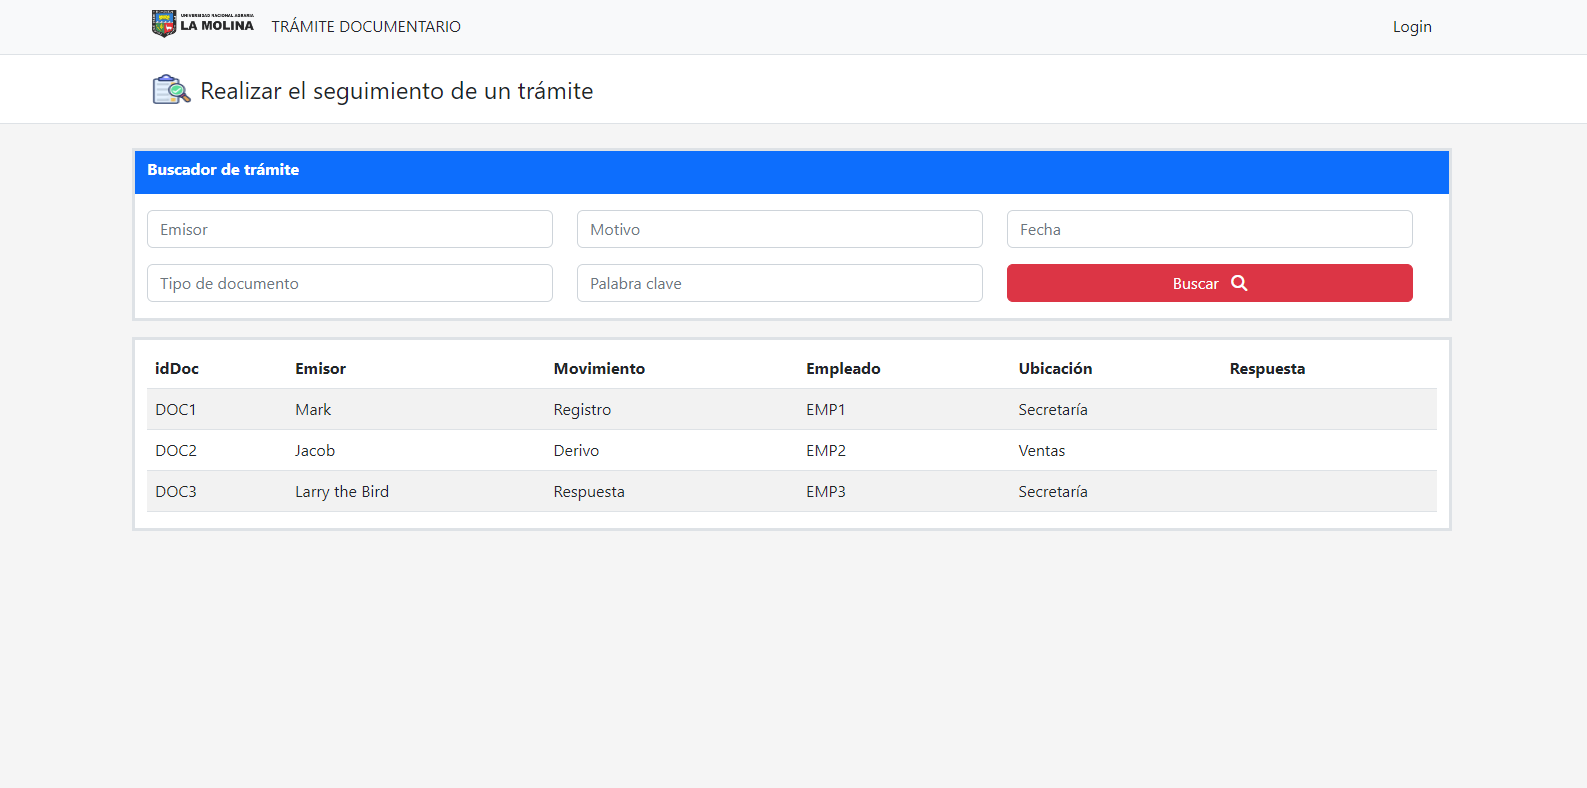
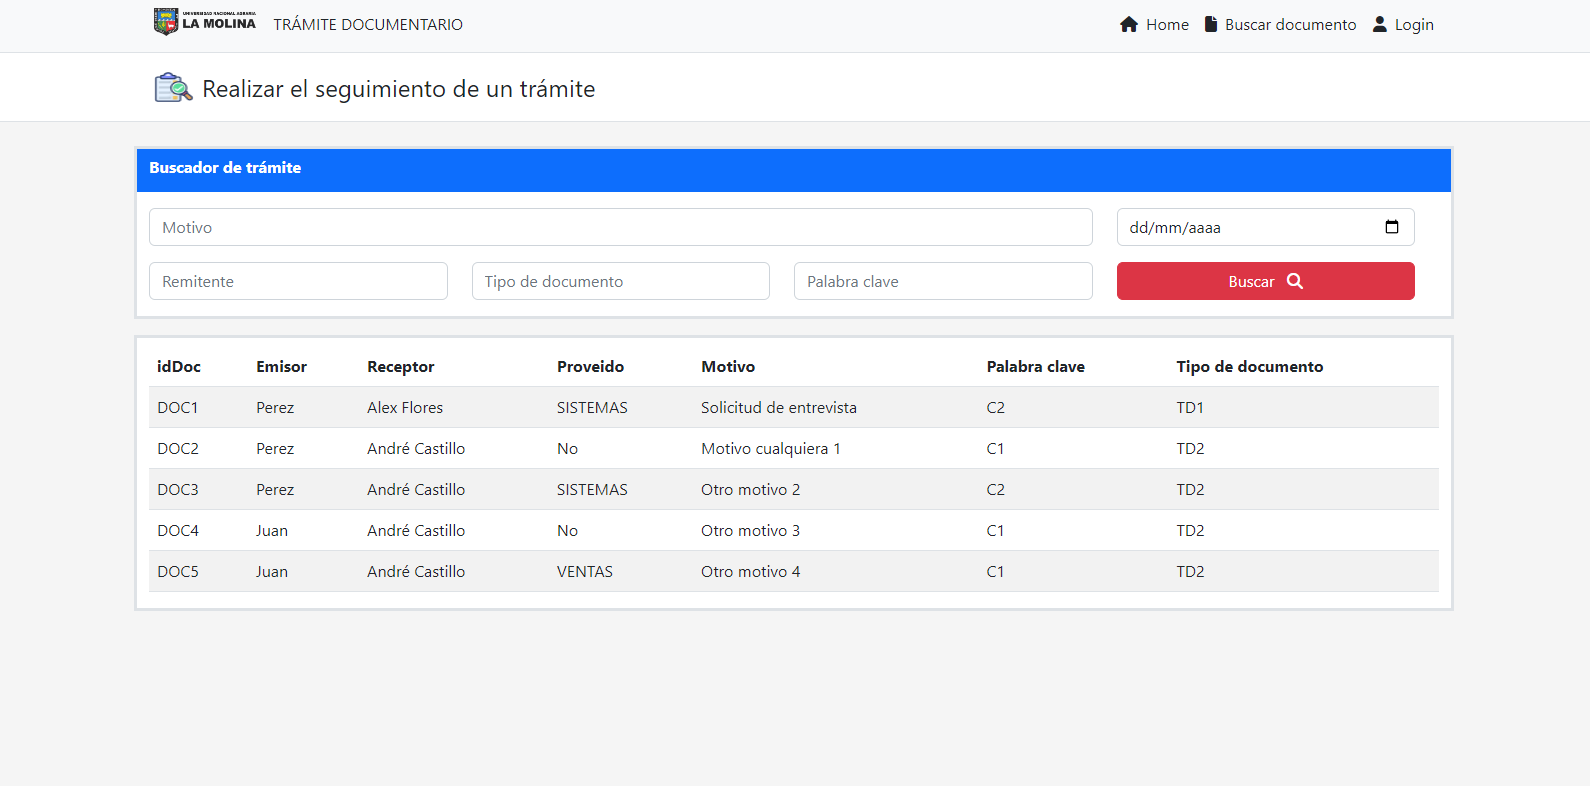
Version 0.1

diff --git a/app/templates/buscar.html b/app/templates/buscar.html
@@ -19,7 +19,7 @@
         <div class="container d-flex flex-wrap">
             <ul class="nav me-auto">
                 <li class="nav-item"><img class = "ms-2 pt-1" src="https://web.lamolina.edu.pe/ppl/templates/img/logo-unalm.png" alt="" height="32"></li>
-                <li class="nav-item"><a href="#" class="nav-link link-dark px-2 active" aria-current="page">TRÁMITE DOCUMENTARIO</a></li>
+                <li class="nav-item"><a href="/" class="nav-link link-dark px-2 active" aria-current="page">TRÁMITE DOCUMENTARIO</a></li>
             </ul>
             <ul class="nav">
                 <li class="nav-item"><a href="/" class="nav-link link-dark px-2"><i class="fa-solid fa-house me-2"></i>Home</a></li>
@@ -41,36 +41,36 @@
             <div class="row bg-primary text-white py-2">
                 <h2 class="fs-6 fw-bolder">Buscador de trámite</h2>
             </div>
-            <form class="row bg-white pb-3">
+            <form class="row bg-white pb-3" action="/buscar" method="POST">
                 <div class="row">
-                    <div class="col-4">
+                    <div class="col-9">
                         <div class="mt-3">
-                            <input type="text" class="form-control" placeholder="Emisor">
+                            <input type="text" class="form-control" placeholder="Motivo" name = "motivo">
                         </div>
                     </div>
-                    <div class="col-4">
+                    <div class="col-3">
                         <div class="mt-3">
-                            <input type="text" class="form-control" placeholder="Motivo">
-                        </div>
-                    </div>
-                    <div class="col-4">
-                        <div class="mt-3">
-                            <input type="text" class="form-control" placeholder="Fecha">
+                            <input type="date" class="form-control" placeholder="Fecha">
                         </div>
                     </div>
                 </div>
                 <div class="row">
-                    <div class="col-4">
+                    <div class="col-3">
                         <div class="mt-3">
-                            <input type="email" class="form-control" placeholder="Tipo de documento">
+                            <input type="text" class="form-control" placeholder="Remitente" name = "remitente">
                         </div>
                     </div>
-                    <div class="col-4">
+                    <div class="col-3">
                         <div class="mt-3">
-                            <input type="email" class="form-control" placeholder="Palabra clave">
+                            <input type="text" class="form-control" placeholder="Tipo de documento" name = "tipo_documento">
                         </div>
                     </div>
-                    <div class="col-4">
+                    <div class="col-3">
+                        <div class="mt-3">
+                            <input type="text" class="form-control" placeholder="Palabra clave" name = "palabra_clave">
+                        </div>
+                    </div>
+                    <div class="col-3">
                         <div class="d-grid gap-2">
                             <button class="mt-3 btn btn-danger" type="submit">Buscar <i class="ms-2 fa-sharp fa-solid fa-magnifying-glass"></i></button>
                         </div>
@@ -86,37 +86,25 @@
                     <tr>
                         <th>idDoc</th>
                         <th>Emisor</th>
-                        <th>Movimiento</th>
-                        <th>Empleado</th>
-                        <th>Ubicación</th>
-                        <th>Respuesta</th>
+                        <th>Receptor</th>
+                        <th>Proveido</th>
+                        <th>Motivo</th>
+                        <th>Palabra clave</th>
+                        <th>Tipo de documento</th>
                     </tr>
                 </thead>
                 <tbody>
+                {% for i in data.0 %}
                     <tr>
-                        <td>DOC1</td>
-                        <td>Mark</td>
-                        <td>Registro</td>
-                        <td>EMP1</td>
-                        <td>Secretaría</td>
-                        <td></td>
+                        <td>{{ i.0 }}</td>
+                        <td>{{ i.1 }}</td>
+                        <td>{{ i.2 }}</td>
+                        <td>{{ i.3 }}</td>
+                        <td>{{ i.4 }}</td>
+                        <td>{{ i.5 }}</td>
+                        <td>{{ i.6 }}</td>
                     </tr>
-                    <tr>
-                        <td>DOC2</td>
-                        <td>Jacob</td>
-                        <td>Derivo</td>
-                        <td>EMP2</td>
-                        <td>Ventas</td>
-                        <td></td>
-                    </tr>
-                    <tr>
-                        <td>DOC3</td>
-                        <td>Larry the Bird</td>
-                        <td>Respuesta</td>
-                        <td>EMP3</td>
-                        <td>Secretaría</td>
-                        <td></td>
-                    </tr>
+                {% endfor %}
                 </tbody>
             </table>
         </div>

diff --git a/app/templates/index.html b/app/templates/index.html
@@ -92,9 +92,9 @@
                     <img src="http://www.lamolina.edu.pe/assets/img/banners_horizontales/slide3.jpg" class="bd-placeholder-img" width="100%" height="500" xmlns="http://www.w3.org/2000/svg" aria-hidden="true" preserveAspectRatio="xMidYMid slice" focusable="false">
                     <div class="container">
                         <div class="carousel-caption text-start">
-                            <h1>Example headline.</h1>
-                            <p>Some representative placeholder content for the first slide of the carousel.</p>
-                            <p><a class="btn btn-lg btn-primary" href="#">Sign up today</a></p>
+                            <h1>CURSO:</h1>
+                            <p>Sistema de Gestión de Base de Datos</p>
+                            <p><a class="btn btn-lg btn-primary" href="#">View details</a></p>
                         </div>
                     </div>
                 </div>
@@ -102,7 +102,7 @@
                     <img src="http://www.lamolina.edu.pe/assets/img/banners_horizontales/slide8.jpg" class="bd-placeholder-img" width="100%" height="500" xmlns="http://www.w3.org/2000/svg" aria-hidden="true" preserveAspectRatio="xMidYMid slice" focusable="false">
                     <div class="container">
                         <div class="carousel-caption">
-                            <h1>Another example headline.</h1>
+                            <h1>SISTEMA DE TRÁMITE DOCUMENTARIO</h1>
                             <p>Some representative placeholder content for the second slide of the carousel.</p>
                             <p><a class="btn btn-lg btn-primary" href="#">Learn more</a></p>
                         </div>
@@ -132,6 +132,9 @@
 
     <section>
         <div class="container">
+            <div class="mt-5">
+                <h2 class="text-center">INTEGRANTES</h2>
+            </div>
             <div class="row pt-5 mb-5">
                 <div class="col-lg-4 d-flex flex-column align-items-center">
                     <svg class="bd-placeholder-img rounded-circle" width="140" height="140" xmlns="http://www.w3.org/2000/svg" role="img" aria-label="Placeholder: 140x140" preserveAspectRatio="xMidYMid slice" focusable="false"><title>Placeholder</title><rect width="100%" height="100%" fill="#777"></rect><text x="50%" y="50%" fill="#777" dy=".3em">140x140</text></svg>

diff --git a/app/database.py b/app/database.py
@@ -52,6 +52,71 @@ class Database():
         except Exception as e:
             raise
 
+    def buscar_documento(self, busqueda):
+        nn = [i for i, e in enumerate(busqueda) if e != ""]
+        valores = ["motivo","emisor","tipo_documento","palabra_clave"]
+        r = []
+        if len(nn) != 0:
+            for i in nn:
+                r.append(valores[i])
+            
+            if len(r) == 1:
+                sql = f"""SELECT * FROM documento WHERE {r[0]} = "{busqueda[nn[0]]}" """
+                try:
+                    self.cursor.execute(sql)
+                    respuesta = self.cursor.fetchall()
+            
+                    return respuesta #Todos los registros
+
+                except Exception as e:
+                    raise
+
+            elif len(r) == 2:
+                sql = f"""SELECT * FROM documento WHERE {r[0]} = "{busqueda[nn[0]]}" AND {r[1]} = "{busqueda[nn[1]]}" """
+                try:
+                    self.cursor.execute(sql)
+                    respuesta = self.cursor.fetchall()
+            
+                    return respuesta #Todos los registros
+
+                except Exception as e:
+                    raise
+
+            if len(r) == 3:
+                sql = f"""SELECT * FROM documento WHERE {r[0]} = "{busqueda[nn[0]]}" AND {r[1]} = "{busqueda[nn[1]]}" AND
+                {r[2]} = "{busqueda[nn[2]]}" """
+                try:
+                    self.cursor.execute(sql)
+                    respuesta = self.cursor.fetchall()
+            
+                    return respuesta #Todos los registros
+
+                except Exception as e:
+                    raise
+            
+            if len(r) == 4:
+                sql = f"""SELECT * FROM documento WHERE {r[0]} = "{busqueda[nn[0]]}" AND {r[1]} = "{busqueda[nn[1]]}" AND
+                {r[2]} = "{busqueda[nn[2]]}" AND {r[3]} = "{busqueda[nn[3]]}" """
+                try:
+                    self.cursor.execute(sql)
+                    respuesta = self.cursor.fetchall()
+            
+                    return respuesta #Todos los registros
+
+                except Exception as e:
+                    raise
+
+        else:
+            sql = f"""SELECT * FROM documento"""
+            try:
+                self.cursor.execute(sql)
+                respuesta = self.cursor.fetchall()
+            
+                return respuesta #Todos los registros
+
+            except Exception as e:
+                raise
+
     def insertar_documento(self, id_doc1, emisor, receptor, proveido, motivo, palabra_clave, tipo_documento):
         sql = f"""INSERT INTO documento (id_doc, emisor, receptor, proveido, motivo, palabra_clave, tipo_documento) 
         VALUES ("{id_doc1}", "{emisor}", "{receptor}","{proveido}", "{motivo}","{palabra_clave}", "{tipo_documento}");"""

diff --git a/app/app.py b/app/app.py
@@ -10,9 +10,20 @@ database = Database()
 def index():   
     return render_template("index.html")
 
-@app.route("/buscar")
-def buscar():   
-    return render_template("buscar.html")
+@app.route("/buscar", methods = ["GET", "POST"])
+def buscar():
+    ver_docs = database.mostrar_documentos()
+
+    if request.method == "POST":
+        motivo = request.form["motivo"]
+        remitente = request.form["remitente"]
+        t_documento = request.form["tipo_documento"]
+        p_clave = request.form["palabra_clave"]
+        busqueda = [motivo, remitente, t_documento, p_clave]
+        b_docs = database.buscar_documento(busqueda)
+        return render_template("buscar.html", data = [b_docs])
+
+    return render_template("buscar.html", data = [ver_docs])
 
 #LOGIN ------------------------------------------------------------
 @app.route("/login", methods = ["GET", "POST"])

diff --git a/README.md b/README.md
@@ -16,6 +16,8 @@ Este prototipo es parte del trabajo final del curso: Sistema de Gestión de Base
 
 ![](/img_readme/inicio.PNG)
 
+![](/img_readme/inicio_1.PNG)
+
 ![](/img_readme/Login.PNG)
 
 ![](/img_readme/dashboard.PNG)
@@ -23,6 +25,8 @@ Este prototipo es parte del trabajo final del curso: Sistema de Gestión de Base
 ![](/img_readme/registrar.PNG)
  
 ![](/img_readme/buscar.PNG)
+
+![](/img_readme/buscar_1.PNG)
 
 ## PASOS PARA PROBAR EL PROYECTO:
 
@@ -40,7 +44,7 @@ Este prototipo es parte del trabajo final del curso: Sistema de Gestión de Base
 
 6. Ingresar a: [](http://127.0.0.1:5000/login). Es aquí donde se despliega el proyecto.
 
-7. Podemos empezar a probar las primeras funcionalidades del prototipo, como la busqueda de usuarios registrados en la base de datos, insertar un documento en la base de datos, etc.
+7. Podemos empezar a probar las primeras funcionalidades del prototipo, como la busqueda de usuarios registrados en la base de datos, insertar un documento en la base de datos, buscar documentos por motivo, emisor, tipo de documento, etc.
 
 8. Para salir, primero debes desactivar el entorno virtual.
 ~~~ python
